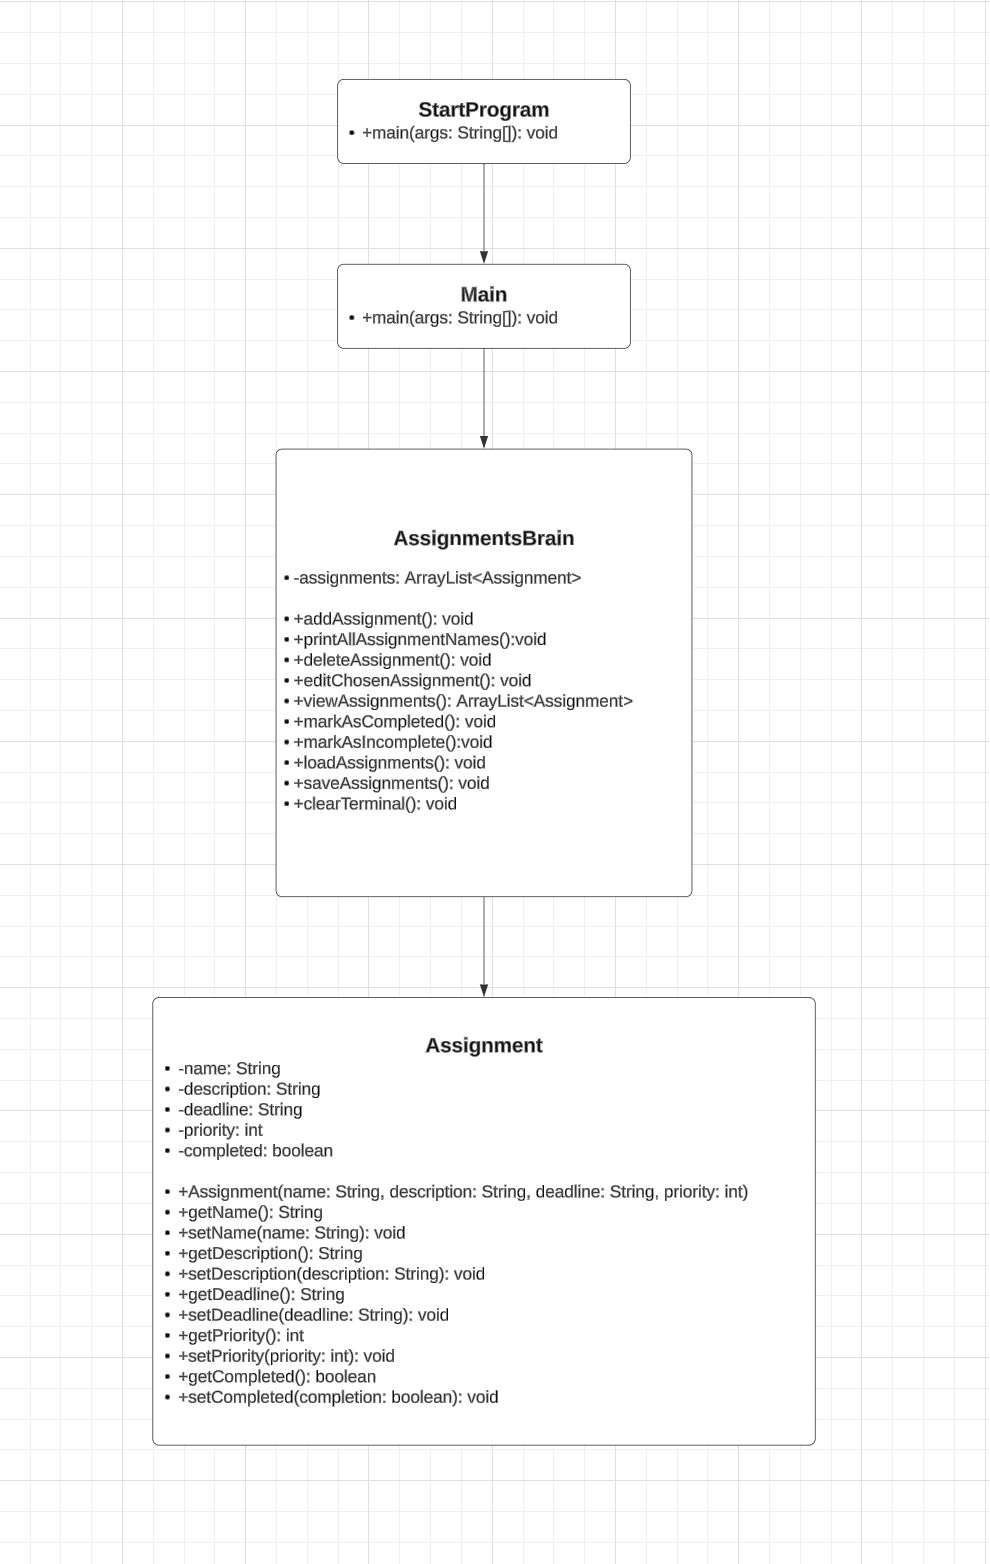
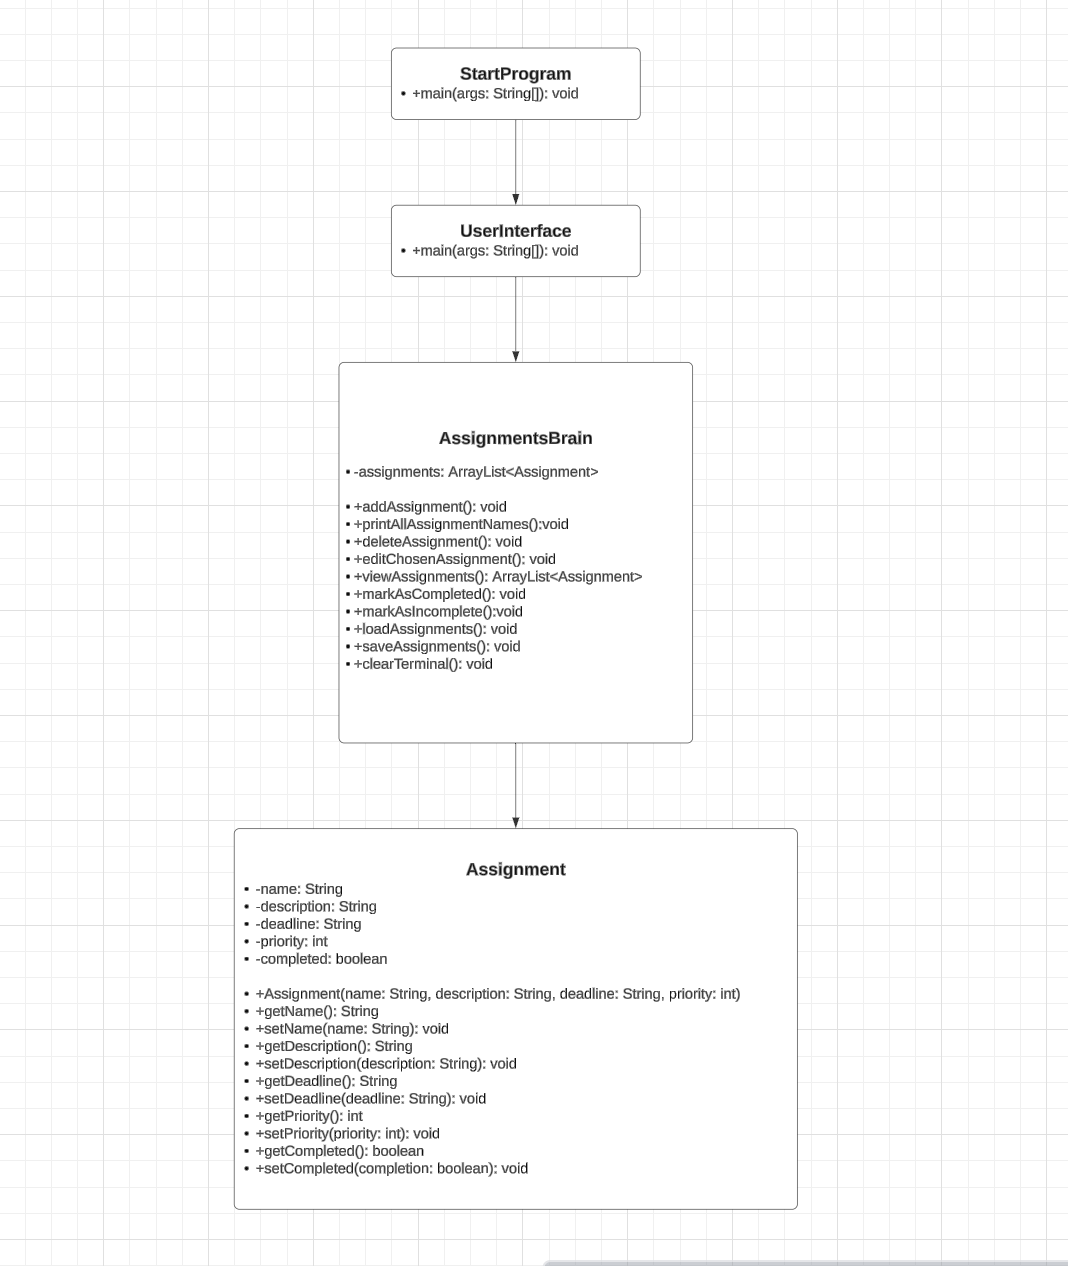
Added comments, added function to just select the options with index, change main to UserInterface class, updated UML and added clearTerminal method into code

diff --git a/src/domain/AssignmentsBrain.java b/src/domain/AssignmentsBrain.java
@@ -7,18 +7,25 @@ import java.util.Scanner;
 
 public class AssignmentsBrain {
 
+  // Array to store Asignments
   private ArrayList<Assignment> assignments = new ArrayList<>();
+
+  // Scanner object to read user-input
   Scanner scanner = new Scanner(System.in);
 
+  // Method to only print the names of all assignments
   public void printAllAssignmentNames() {
-    System.out.println("\nAssignment Names:");
-        for (Assignment assignment : assignments) {
-            System.out.println("- " + assignment.getName());
-        }
-    System.out.println("\n");
+    clearTerminal();
+    System.out.println("Assignment Names:");
+    for (int i = 0; i < assignments.size(); i++) {
+      System.out.println(i + 1 + ". " + assignments.get(i).getName());
     }
+    System.out.println("\n");
+  }
 
+  // Method to print all assignments
   public ArrayList<Assignment> viewAssignments() {
+    clearTerminal();
     System.out.println("\nAll Assignments: \n");
     for (Assignment assignment : assignments) {
         System.out.println(assignment);
@@ -27,16 +34,21 @@ public class AssignmentsBrain {
     return assignments;
   }
 
+  // Method for creating an assignment
   public void addAssignment() {
+    clearTerminal();
     System.out.println("Enter assignment name:");
     String name = scanner.nextLine();
 
+    clearTerminal();
     System.out.println("Enter description:");
     String description = scanner.nextLine();
 
+    clearTerminal();
     System.out.println("Enter deadline:");
     String deadline = scanner.nextLine();
 
+    clearTerminal();
     System.out.println("Enter priority (1-3):");
     int priority = scanner.nextInt();
     scanner.nextLine();
@@ -44,56 +56,58 @@ public class AssignmentsBrain {
     Assignment newAssignment = new Assignment(name, description, deadline, priority);
     assignments.add(newAssignment);
 
+    clearTerminal();
     System.out.println("Assignment added! 🎉");
     saveAssignment();
   }
 
+  // Method to change the completion of a selcted assignment from false to true
   public void markAsCompleted() {
     printAllAssignmentNames();
-    System.out.println("Which assignment would you like to mark as completed?");
-    String completeName = scanner.nextLine();
+    System.out.println("Which assignment would you like to mark as completed? (Enter the number)");
+    int index = scanner.nextInt();
+    scanner.nextLine();
 
-    for (Assignment assignment : assignments) {
-        if (assignment.getName().equalsIgnoreCase(completeName)) {
-            assignment.setCompleted(true);
-            System.out.println("Assignment marked as completed. ✅");
-            saveAssignment();
-            return;
-        }
-    }
-    System.out.println("This assignment doesn't exist... 🤔");
-  }
-
-  public void markAsIncomplete() {
-    printAllAssignmentNames();
-    System.out.println("Which assignment would you like to mark as incomplete?");
-    String incompleteName = scanner.nextLine();
-
-    for (Assignment assignment : assignments) {
-      if (assignment.getName().equalsIgnoreCase(incompleteName)) {
-        assignment.setCompleted(false);
-        System.out.println("Assignment marked as incomplete. ❌");
+    clearTerminal();
+    if (index > 0 && index <= assignments.size()) {
+        assignments.get(index - 1).setCompleted(true);
+        System.out.println("Assignment marked as completed. ✅");
         saveAssignment();
         return;
-      }
     }
+    clearTerminal();
     System.out.println("This assignment doesn't exist... 🤔");
   }
 
+  // Method to change the completion of a selcted assignment from true to false
+  public void markAsIncomplete() {
+    printAllAssignmentNames();
+    System.out.println("Which assignment would you like to mark as completed? (Enter the number)");
+    int index = scanner.nextInt();
+    scanner.nextLine();
+
+    clearTerminal();
+    if (index > 0 && index <= assignments.size()) {
+      assignments.get(index - 1).setCompleted(false);
+      System.out.println("Assignment marked as incomplete. ❌");
+      saveAssignment();
+      return;
+    }
+    clearTerminal();
+    System.out.println("This assignment doesn't exist... 🤔");
+  }
+
+  // Method to edit a selected assignment including having the option to change only a specific attribute
   public void editChosenAssignment() {
     printAllAssignmentNames();
-    System.out.println("Which assignment would you like to edit?");
-    String editName = scanner.nextLine();
+    System.out.println("Which assignment would you like to edit? (Enter the number)");
+    int index = scanner.nextInt();
+    scanner.nextLine();
 
-    Assignment assignmentToEdit = null;
-    for (Assignment assignment : assignments) {
-        if (assignment.getName().equalsIgnoreCase(editName)) {
-            assignmentToEdit = assignment;
-            break;
-        }
-    }
+    clearTerminal();
+    if (index > 0 && index <= assignments.size()) {
+      Assignment assignmentToEdit = assignments.get(index - 1);
 
-    if (assignmentToEdit != null) {
         System.out.println("What would you like to edit?");
         System.out.println("(1) Name");
         System.out.println("(2) Description");
@@ -106,76 +120,94 @@ public class AssignmentsBrain {
 
         switch (editChoice) {
             case 1:
+                clearTerminal();
                 System.out.println("Current Name: " + assignmentToEdit.getName());
                 System.out.println("Enter new name:");
                 assignmentToEdit.setName(scanner.nextLine());
+                clearTerminal();
                 System.out.println("Assignment name edited! 🎉");
                 break;
 
             case 2:
+                clearTerminal();
                 System.out.println("Current description: " + assignmentToEdit.getDescription());
                 System.out.println("Enter new description:");
                 assignmentToEdit.setDescription(scanner.nextLine());
+                clearTerminal();
                 System.out.println("Assignment description edited! 🎉");
                 break;
 
             case 3:
+                clearTerminal();
                 System.out.println("Current deadline: " + assignmentToEdit.getDeadline());
                 System.out.println("Enter new deadline:");
                 assignmentToEdit.setDeadline(scanner.nextLine());
+                clearTerminal();
                 System.out.println("Assignment deadline edited! 🎉");
                 break;
 
             case 4:
+                clearTerminal();
                 System.out.println("Current priority: " + assignmentToEdit.getPriority());
                 System.out.println("Enter new priority (1-3):");
                 assignmentToEdit.setPriority(scanner.nextInt());
                 scanner.nextLine();
+                clearTerminal();
                 System.out.println("Assignment priority edited! 🎉");
                 break;
 
             case 5:
+                clearTerminal();
                 System.out.println("Current Name: " + assignmentToEdit.getName());
                 System.out.println("Enter new name:");
                 assignmentToEdit.setName(scanner.nextLine());
+                clearTerminal();
                 System.out.println("Current description: " + assignmentToEdit.getDescription());
                 System.out.println("Enter new description:");
                 assignmentToEdit.setDescription(scanner.nextLine());
+                clearTerminal();
                 System.out.println("Current deadline: " + assignmentToEdit.getDeadline());
                 System.out.println("Enter new deadline:");
                 assignmentToEdit.setDeadline(scanner.nextLine());
+                clearTerminal();
                 System.out.println("Current priority: " + assignmentToEdit.getPriority());
                 System.out.println("Enter new priority (1-3):");
                 assignmentToEdit.setPriority(scanner.nextInt());
                 scanner.nextLine();
+                clearTerminal();
                 System.out.println("Assignment edited! 🎉");
                 break;
 
             default:
+                clearTerminal();
                 System.out.println("That wasn't the right input. Please try again. 🤔");
         }
         saveAssignment();
     } else {
+        clearTerminal();
         System.out.println("This assignment doesn't exist... 🤔");
     }
   }
 
+  // Method to delete a selected assignment
   public void deleteAssignment() {
     printAllAssignmentNames();
-    System.out.println("Which assignment would you like to delete?");
-    String deleteName = scanner.nextLine();
+    System.out.println("Which assignment would you like to delete? (Enter the number)");
+    int index = scanner.nextInt();
+    scanner.nextLine();
 
-    for (Assignment assignment : assignments) {
-      if (assignment.getName().equalsIgnoreCase(deleteName)) {
-        assignments.remove(assignment);
-        System.out.println("Assignment deleted. 🗑");
-        saveAssignment();
-        return;
-      }
+    if (index > 0 && index <= assignments.size()) {
+      assignments.remove(index - 1);
+      clearTerminal();
+      System.out.println("Assignment deleted. 🗑");
+      saveAssignment();
+      return;
     }
+    clearTerminal();
     System.out.println("This assignment doesn't exist... 🤔");
   }
 
+  // Method for loading existing assignments from the csv file
   public void loadAssignments() {
         try {
             File file = new File("assignments.csv");
@@ -202,6 +234,7 @@ public class AssignmentsBrain {
         }
   }
 
+  // Method for saving changes onto the csv file
   public void saveAssignment() {
   try (FileWriter writer = new FileWriter("assignments.csv")) {
       for (Assignment assignment : assignments) {
@@ -213,22 +246,23 @@ public class AssignmentsBrain {
               assignment.getCompleted() + "\n"
           );
       }
-    System.out.println("Saved! 💾");
+    System.out.println("Saved! 💾 \n");
     } catch (IOException ex) {
       System.err.println(ex);
     }
   }
 
-    public void clearTerminal() {
-      try {
-          if (System.getProperty("os.name").contains("Windows")) {
-              new ProcessBuilder("cmd", "/c", "cls").inheritIO().start().waitFor();
-          } else {
-              System.out.print("\033[H\033[2J");
-              System.out.flush();
+  // Method to clear the terminal (it gets full rather fast)
+  public void clearTerminal() {
+    try {
+      if (System.getProperty("os.name").contains("Windows")) {
+          new ProcessBuilder("cmd", "/c", "cls").inheritIO().start().waitFor();
+        } else {
+          System.out.print("\033[H\033[2J");
+          System.out.flush();
           }
-      } catch (Exception ex) {
-          System.err.println(ex);
+    } catch (Exception ex) {
+      System.err.println(ex);
       }
     }
 }

diff --git a/src/presentation/UserInterface.java b/src/presentation/UserInterface.java
@@ -2,27 +2,33 @@ package presentation;
 import domain.*;
 import java.util.Scanner;
 
-public class Main {
+public class UserInterface {
     public static void main(String[] args) {
+
+        // Initialize Scanner and AssignmentsBrain Object
         AssignmentsBrain brain = new AssignmentsBrain();
         Scanner scanner = new Scanner(System.in);
         boolean loop = true;
 
+        // Load data from the csv File
         brain.loadAssignments();
 
+        // While loop is true it will keep on going
         while (loop == true) {
-            System.out.println("\nChoose an option:");
+
+          // asking user to chose an option that will direct the code to the needed method
+            System.out.println("Choose an option:");
             System.out.println("(1) View All Assignments");
             System.out.println("(2) Add Assignment");
             System.out.println("(3) Edit Assignment");
             System.out.println("(4) Mark Assignment as Completed");
             System.out.println("(5) Mark Assignment as Incomplete");
             System.out.println("(6) Delete Assignment");
-            System.out.println("(7) Clean up Terminal");
-            System.out.println("(8) Exit");
+            System.out.println("(7) Exit");
 
             if (scanner.hasNextInt() == false) {
-                System.out.println("Well... this wasn't a option 🤔");
+                brain.clearTerminal();
+                System.out.println("\nWell... this wasn't a option 🤔 \n");
                 scanner.nextLine();
                 continue;
             }
@@ -56,17 +62,14 @@ public class Main {
                     break;
 
                 case 7:
-                    brain.clearTerminal();
-                    break;
-
-                case 8:
                     System.out.println("Goodbye! 🖖");
                     scanner.close();
                     loop = false;
                     break;
 
                 default:
-                    System.out.println("Well... this wasn't a option 🤔");
+                    brain.clearTerminal();
+                    System.out.println("\nWell... this wasn't a option 🤔 \n");
                     break;
             }
         }

diff --git a/src/domain/Assignment.java b/src/domain/Assignment.java
@@ -2,12 +2,14 @@ package domain;
 
 public class Assignment {
 
+  // Attributes
   private String name = "";
   private String description = "";
   private String deadline = "";
   private boolean completion = false;
   private int priority = 0;
 
+  // Constructor
   public Assignment(String name, String description, String deadline, int priority) {
     this.name = name;
     this.description = description;
@@ -15,6 +17,7 @@ public class Assignment {
     this.priority = priority;
   }
 
+  // Getters and Setters
   public void setName(String name) {
     this.name = name;
   }
@@ -55,6 +58,7 @@ public class Assignment {
     return this.completion;
   }
 
+  // toString method
   public String toString() {
     String Emoji;
 

diff --git a/src/application/StartProgram.java b/src/application/StartProgram.java
@@ -2,7 +2,9 @@ package application;
 import presentation.*;
 
 public class StartProgram {
+
+  // Starts the whole program
   public static void main(String[] args){
-    Main.main(args);
+    UserInterface.main(args);
     }
 }
